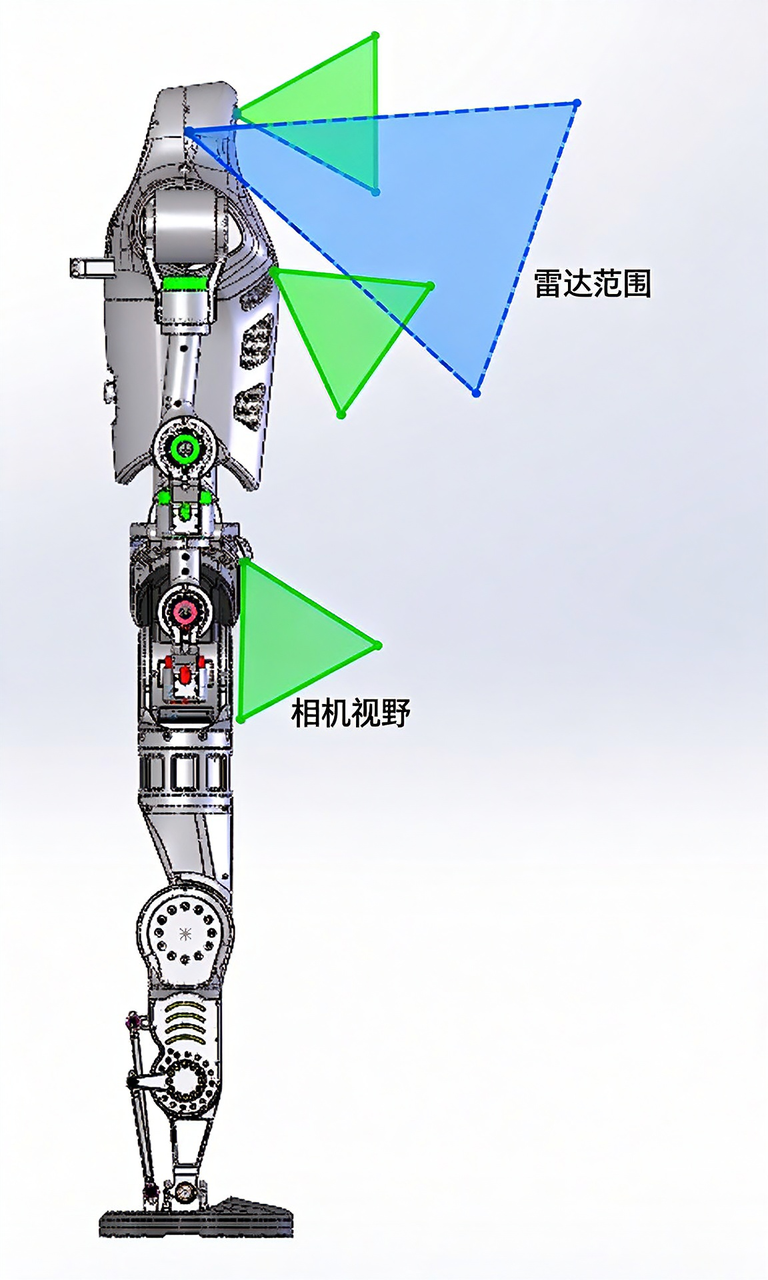
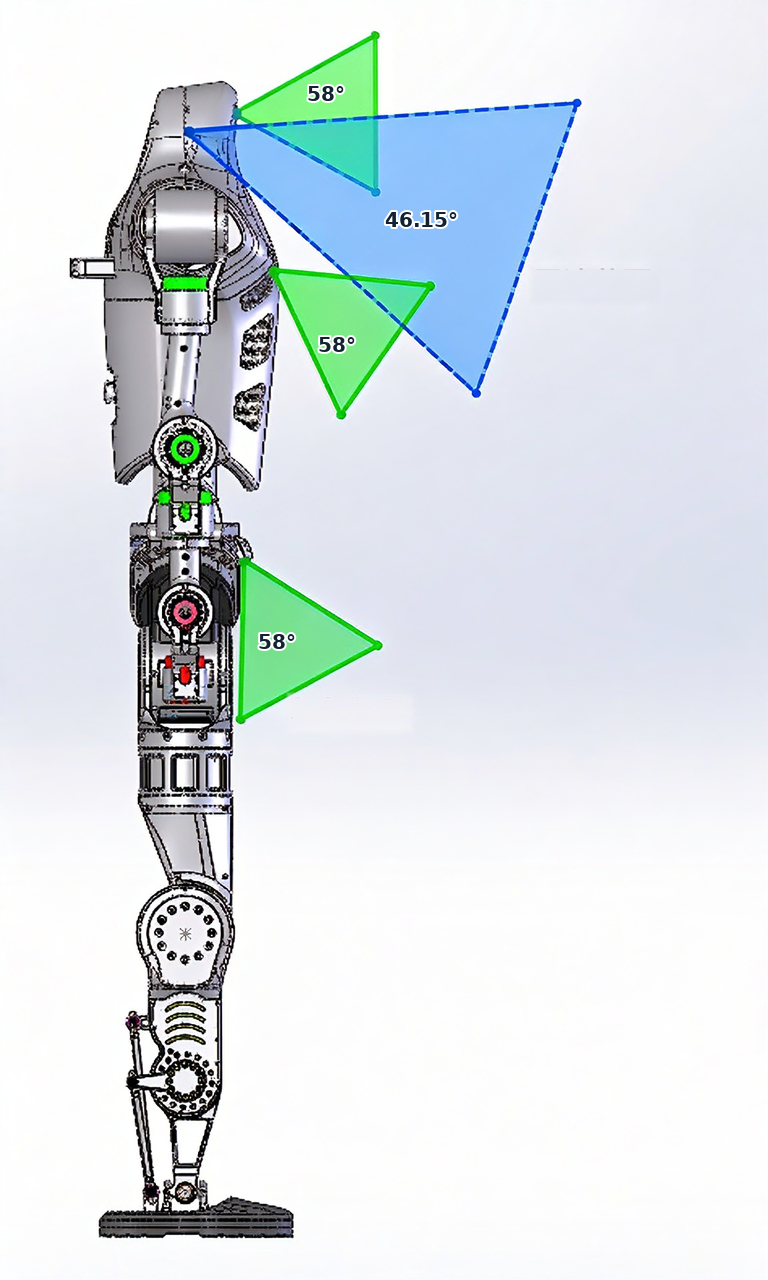
update picture

diff --git a/docs/en/sdk/ros2-example.md b/docs/en/sdk/ros2-example.md
@@ -269,6 +269,6 @@ ros2 service type /plan_move
 
 ## Sources and verification scope
 
-Interface sources are this repository's `tmp/W1_ROS2通讯接口示例.md` and `tmp/整机控制接口README.md`; the W1-specific contract takes precedence. Their 2026-11-20 verification record reports right-elbow feedback of 0.0000 rad and PVT `waiting` in a headless W1 mock, a successful planning-only request with 183 trajectory points, an offline 100 Hz replay check, and Teach/Capture message-field checks. **These are source records, not results rerun during this documentation integration.** The trajectory point count is not fixed. The source did not validate physical motion, camera capture or welding execution.
+The W1-specific contract takes precedence. Their 2026-11-20 verification record reports right-elbow feedback of 0.0000 rad and PVT `waiting` in a headless W1 mock, a successful planning-only request with 183 trajectory points, an offline 100 Hz replay check, and Teach/Capture message-field checks. **These are source records, not results rerun during this documentation integration.** The trajectory point count is not fixed. The source did not validate physical motion, camera capture or welding execution.
 
 This repository's tests cover the client and documentation build. Full W1 integration requires the corresponding delivered workspace. Record exact software versions, firmware combinations and deployment validation in [SDK integration](./integration.md).

diff --git a/docs/en/api/w1-control.md b/docs/en/api/w1-control.md
@@ -117,6 +117,6 @@ Readiness includes an active controller and driver handover. The W1 startup gate
 
 ## Sources and scope
 
-Sources are this repository's `tmp/W1_ROS2通讯接口示例.md` and `tmp/整机控制接口README.md`. The W1-specific guide takes precedence over generic or historical descriptions: this page uses current 100 Hz arm interpolation, session tokens and hardware feedforward mapping, rather than older 50/500 Hz replay conditions without interpolation.
+The W1-specific guide takes precedence over generic or historical descriptions: this page uses current 100 Hz arm interpolation, session tokens and hardware feedforward mapping, rather than older 50/500 Hz replay conditions without interpolation.
 
 The W1 installation should include YAML, replay scripts and trajectories under `docs/examples/`, and replay dependencies. Rebuild that workspace after configuration or data changes to update installed copies. Driver sources, trajectory data and calibration files not supplied with these documents are not provided here. Exact software revisions and firmware versions remain to be recorded with a release.
